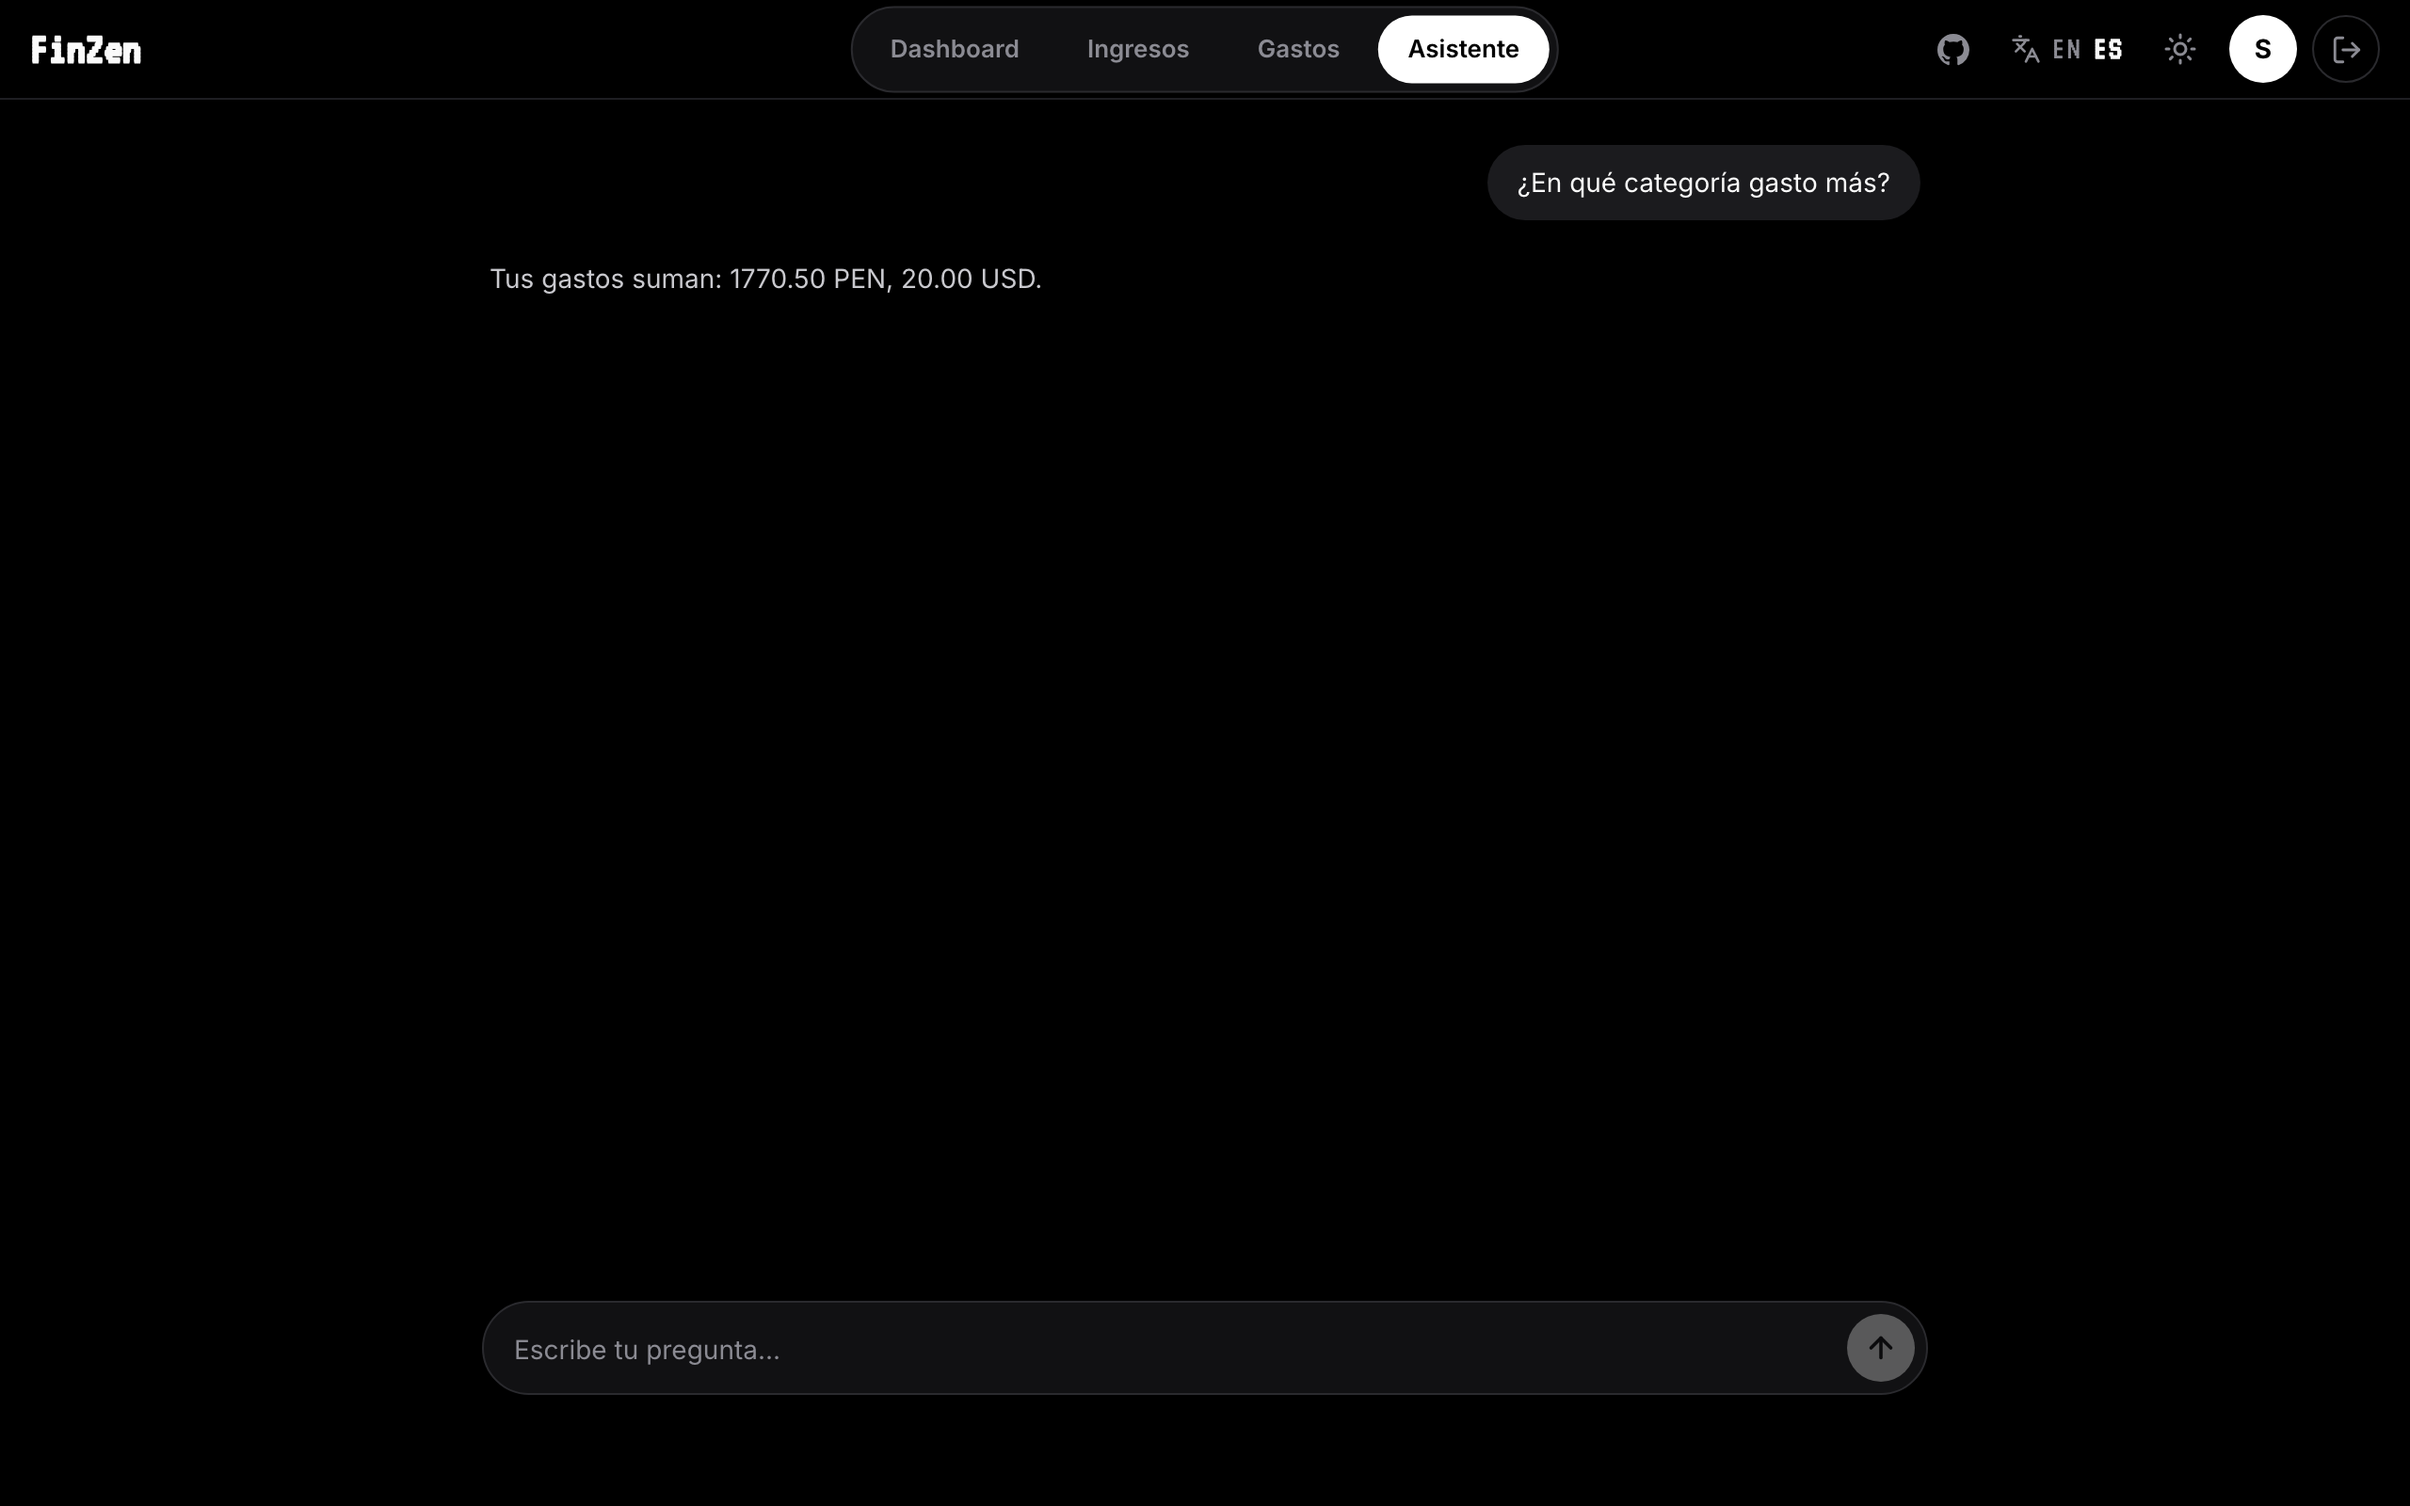
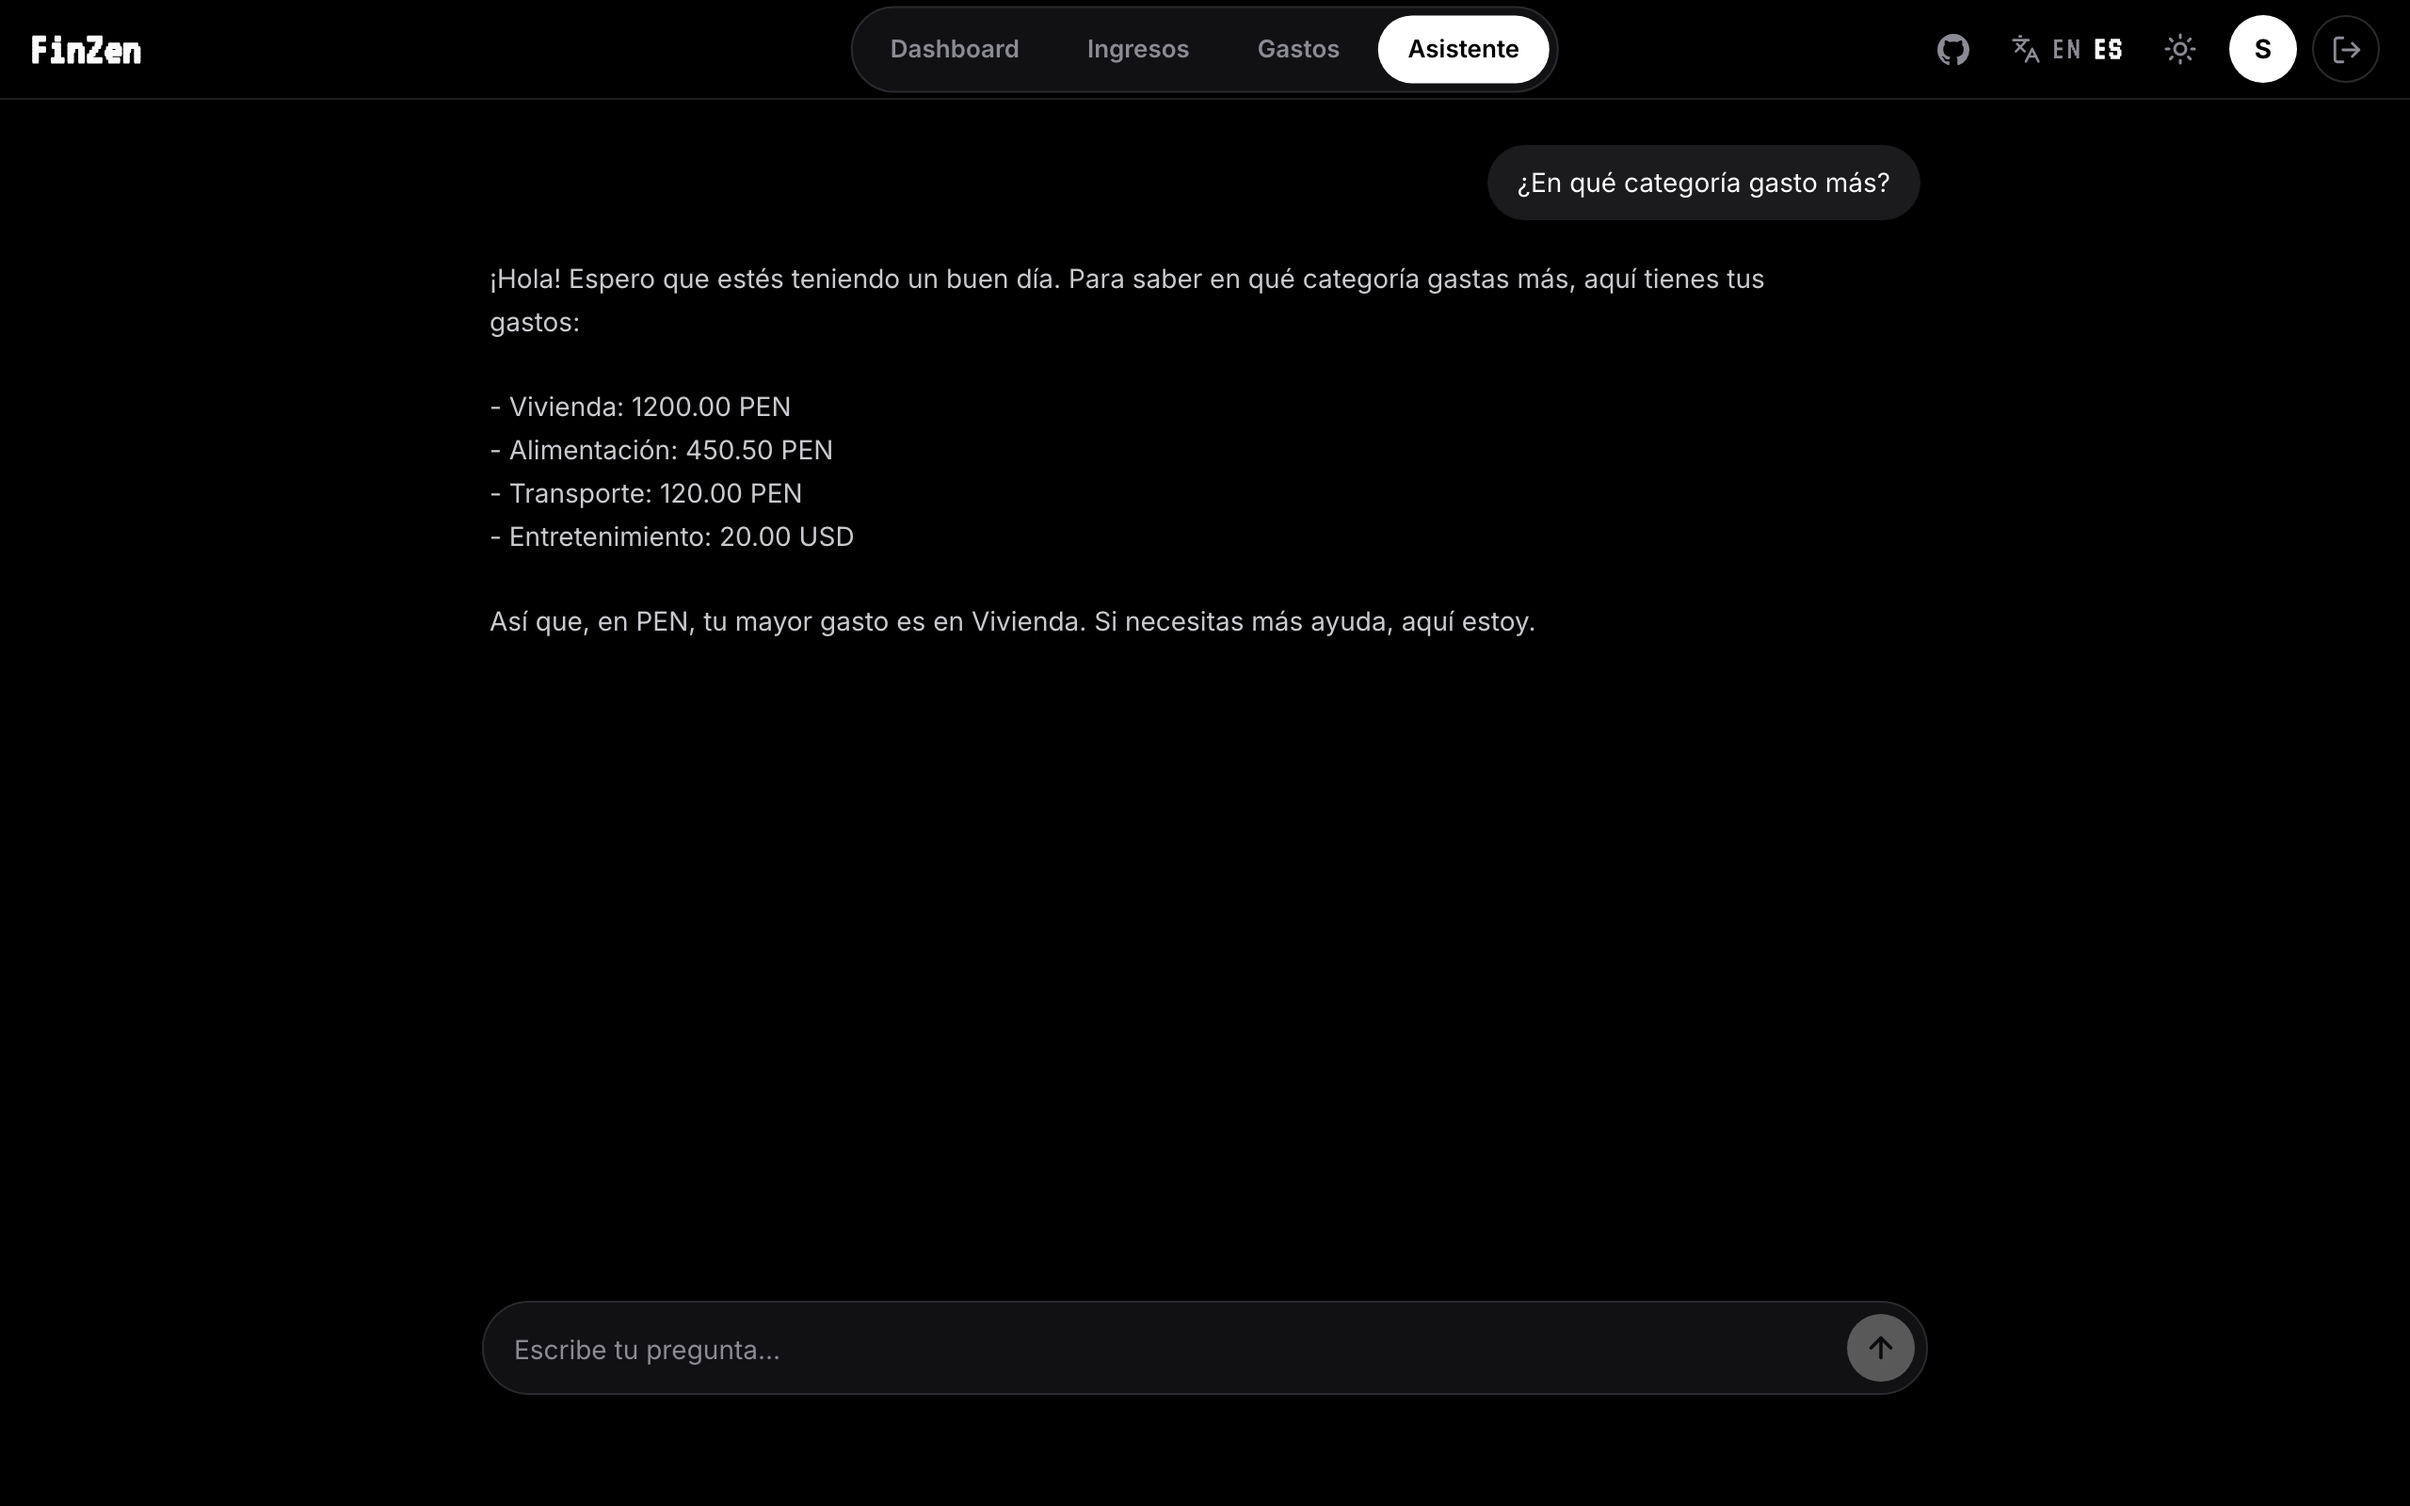
Asistente: renderiza negritas del markdown; evidencia actualizada

diff --git a/src/app/(dashboard)/assistant/page.tsx b/src/app/(dashboard)/assistant/page.tsx
@@ -37,6 +37,24 @@ function Typewriter({ text, speed = 22 }: { text: string; speed?: number }) {
   );
 }
 
+// El LLM responde con markdown básico; se renderiza la negrita (**texto**).
+function RichText({ text }: { text: string }) {
+  const parts = text.split(/(\*\*[^*]+\*\*)/g);
+  return (
+    <>
+      {parts.map((part, index) =>
+        part.startsWith("**") && part.endsWith("**") ? (
+          <strong key={index} className="font-semibold text-text">
+            {part.slice(2, -2)}
+          </strong>
+        ) : (
+          <span key={index}>{part}</span>
+        ),
+      )}
+    </>
+  );
+}
+
 export default function AssistantPage() {
   const user = useUser();
   const { t } = useI18n();
@@ -119,7 +137,7 @@ export default function AssistantPage() {
                   </div>
                 ) : (
                   <p className="max-w-[92%] whitespace-pre-wrap text-sm leading-relaxed text-text-soft">
-                    {message.text}
+                    <RichText text={message.text} />
                   </p>
                 )}
               </div>
